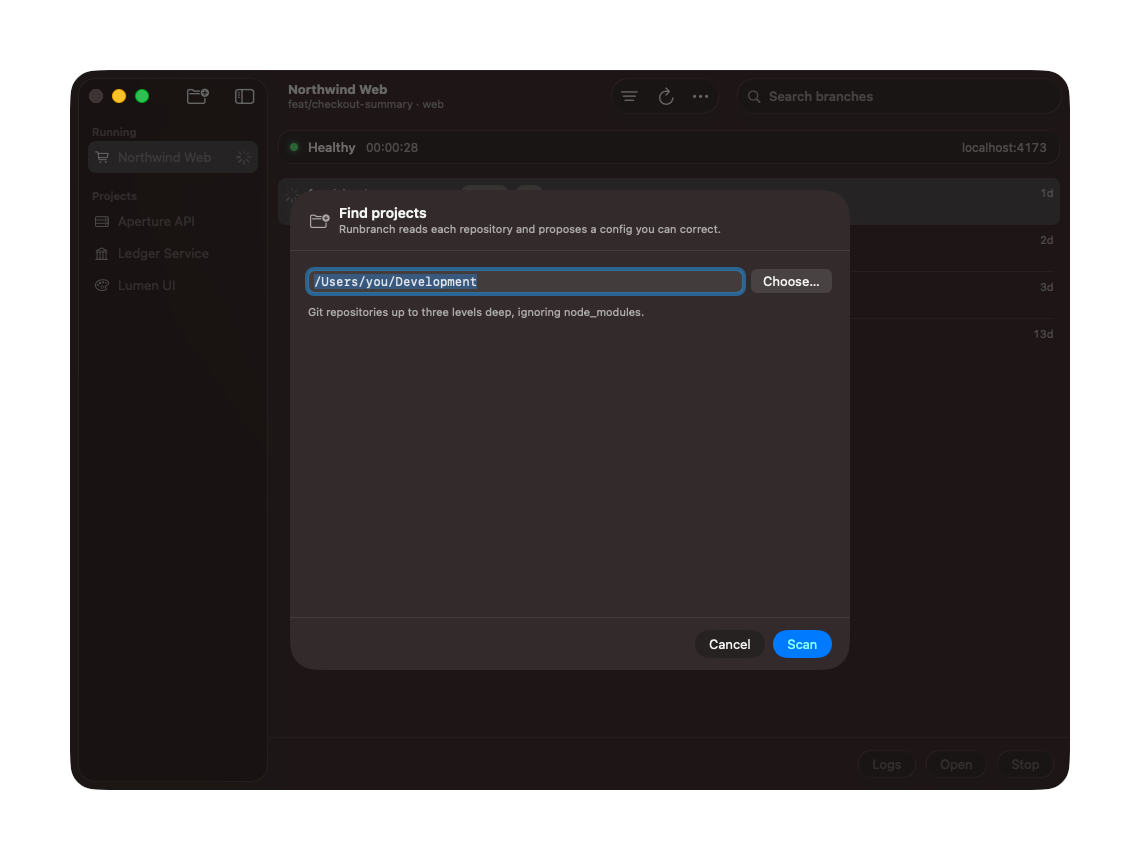
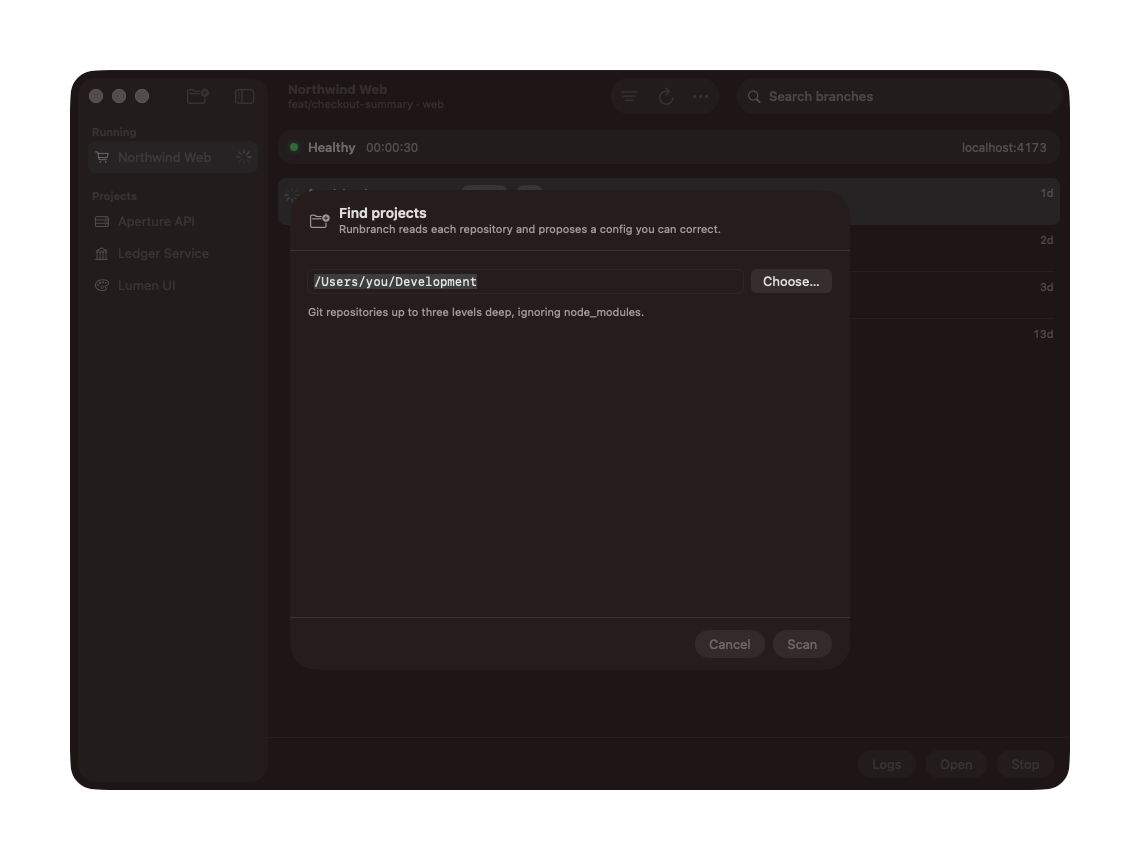
Drop the sheet-chrome experiments
Glass surfaces, a cleared sheet window and the SheetChrome representable
did not fix how flat the sheets look, so they go rather than stay as
speculative styling. The sheets render as macOS presents them.

The screenshot pipeline keeps what actually works: native pixel scale,
launching through LaunchServices, polling for any window this process
owns, scene support, and a real demo run behind it.

diff --git a/app/RunBranch.swift b/app/RunBranch.swift
@@ -1272,27 +1272,6 @@ struct SymbolPicker: View {
 /// The engine owns the file: this reads `get` and writes changed keys through
 /// `set`, which keeps comments, backs the file up and reverts anything that
 /// will not load. So the worst a mistake here can do is show an error.
-/// Makes a sheet's own window transparent so the material behind the content
-/// is what you see.
-///
-/// A SwiftUI sheet on macOS is a real NSWindow that fills itself with an opaque
-/// background colour. Anything translucent placed inside it therefore composites
-/// against that fill rather than against the parent window, so the sheet reads
-/// as a flat filled rectangle with no depth to it. Clearing the window's own
-/// background is what lets the material — and the window's shadow — show.
-struct SheetChrome: NSViewRepresentable {
-    func makeNSView(context: Context) -> NSView { NSView(frame: .zero) }
-
-    func updateNSView(_ view: NSView, context: Context) {
-        DispatchQueue.main.async {
-            guard let w = view.window else { return }
-            w.isOpaque = false
-            w.backgroundColor = .clear
-            w.hasShadow = true
-        }
-    }
-}
-
 struct ProjectEditor: View {
     let projectID: String
     let onClose: (_ changed: Bool) -> Void
@@ -1423,9 +1402,6 @@ struct ProjectEditor: View {
             .padding(.horizontal, 18).padding(.vertical, 12)
         }
         .frame(width: 560, height: 620)
-        .glassEffect(.regular, in: .rect(cornerRadius: 16))
-        .presentationBackground(.clear)
-        .background(SheetChrome())
         .task {
             let loaded = await Task.detached { Engine.get(projectID) }.value
             f = loaded; original = loaded; loading = false
@@ -1591,9 +1567,6 @@ struct ScanSheet: View {
             .padding(.horizontal, 18).padding(.vertical, 12)
         }
         .frame(width: 560, height: 480)
-        .glassEffect(.regular, in: .rect(cornerRadius: 16))
-        .presentationBackground(.clear)
-        .background(SheetChrome())
     }
 
     private func chooseFolder() {
